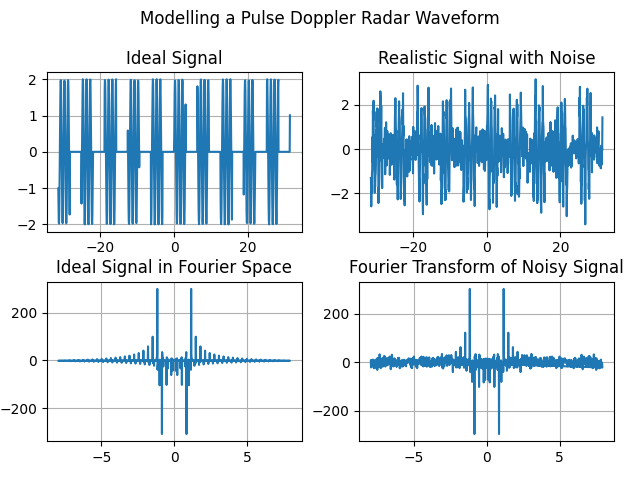
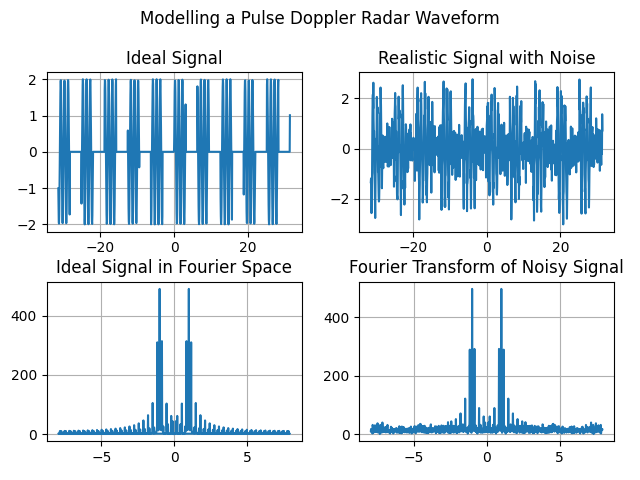
Changed Q1 figures to be absolute value waveforms

diff --git a/Q1_code.py b/Q1_code.py
@@ -23,11 +23,11 @@ def main():
 
     # Define figures
     ax[0][0].plot(t, sig)
-    ax[1][0].plot(freq, fft.fft(sig))
+    ax[1][0].plot(freq, abs(fft.fft(sig)))
 
     # Noisy Signals
     ax[0][1].plot(t, noisy_sig)
-    ax[1][1].plot(freq, fft.fft(noisy_sig))
+    ax[1][1].plot(freq, abs(fft.fft(noisy_sig)))
 
     # Define subplot titles
     ax[0][0].set_title('Ideal Signal')
@@ -42,7 +42,7 @@ def main():
     ax[1][1].grid(True)
 
     # Name and scale figure
-    fig.suptitle('Modelling a Real-World Sonar Pulse')
+    fig.suptitle('Modelling a Pulse Doppler Radar Waveform')
     plt.subplots_adjust(top=0.85)
 
     plt.show()
